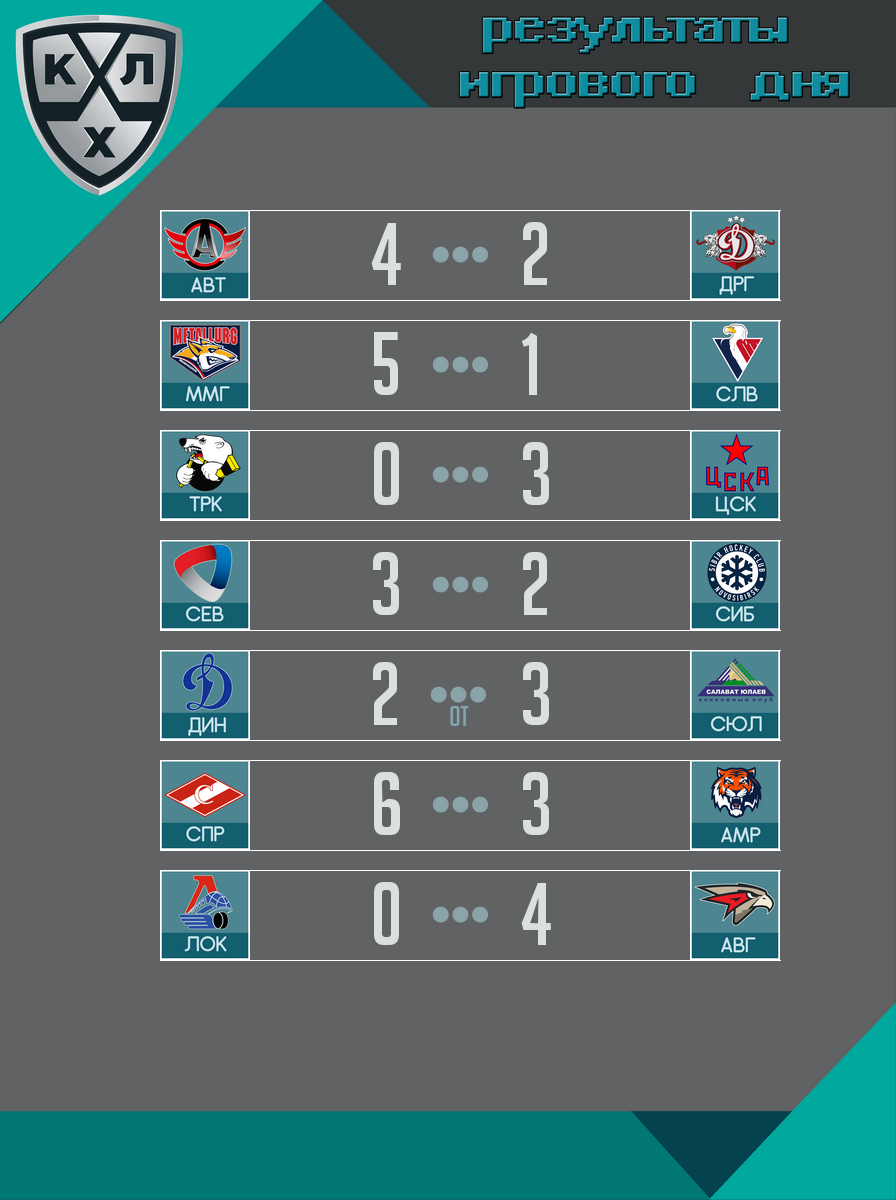
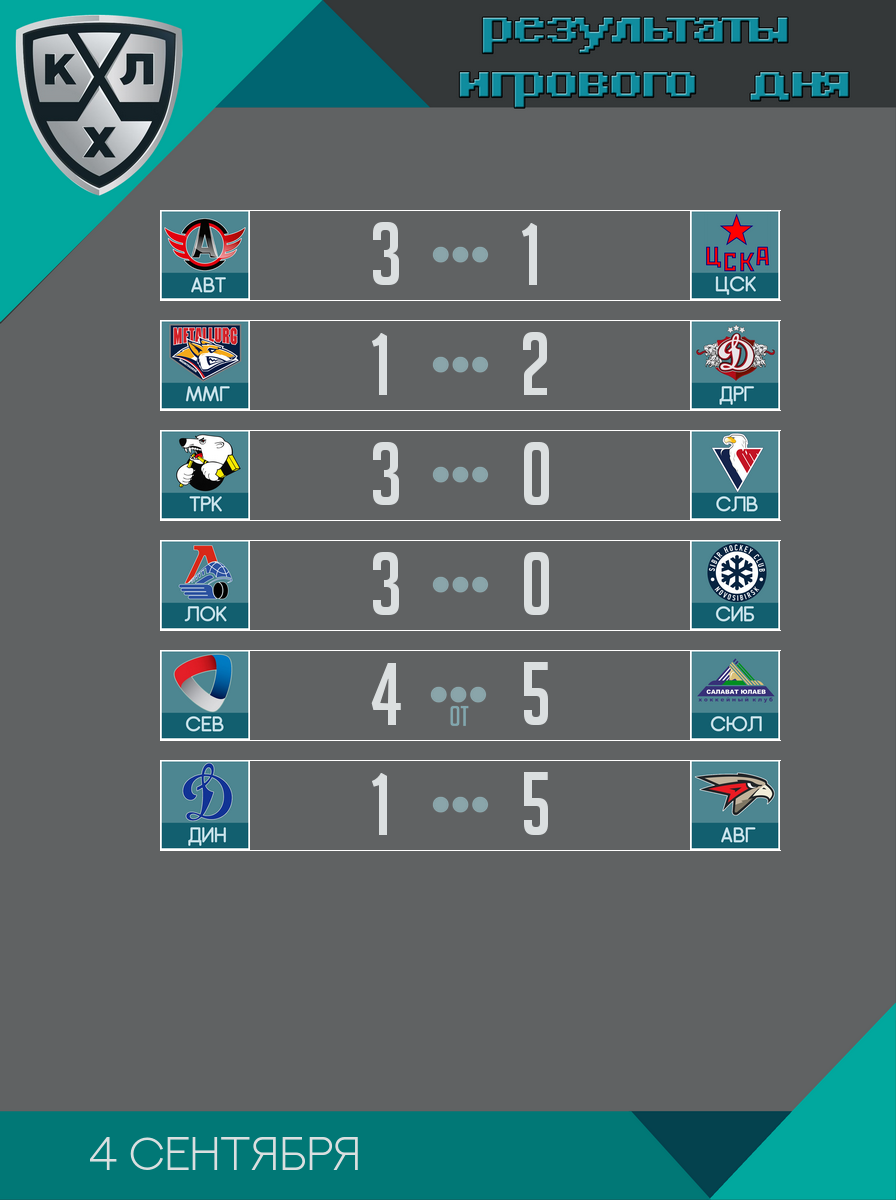
Дата постера результаты матча

diff --git a/views/module3/poster_final_score.php b/views/module3/poster_final_score.php
@@ -67,9 +67,12 @@ include(Yii::getAlias('@app/web/my_config/module2.php'));
     $color_text = imagecolorallocate($image, 219,223,224);
     $color_line = imagecolorallocate($image, 255,255,255);
     // установка шрифта
-    $font_date = 'font\ARIALBD.TTF';
+    $font_date = 'font\NEXTART-Light.otf';
     $font_time = 'font\BigNoodleTitlingCyr.ttf';
     $font_text = 'font\Arciform Sans cyr-lat Regular.otf';
+    $font_text = 'font\Arciform Sans cyr-lat Regular.otf';           
+               
+             
     // цикл прорисовки результатов
     for($i=1; $i <= $count_matches; $i++){
         // формирование имен ключей
@@ -109,8 +112,13 @@ include(Yii::getAlias('@app/web/my_config/module2.php'));
         echo '$data_poster[$count_periods]- '. $count_periods;
         $periods = imagecreatefrompng('images\module3\template_final_score\period_'.$data_poster[$count_periods].'.png');
         imagecopyresized($image, $periods, 425, $arr_coord[$i-1]['y_line_up_1']+15, 0, 0,70, 90, 70,90);
-        
+         
     }
+               
+    //вставка даты
+    $date = $data_poster['day_game'];
+    $month = $data_poster['month_game'];
+    imagettftext($image, 35, 0, 90, 1170, $color_text , $font_date, $date.' '.$month);
     
                
     // сохранение файла
